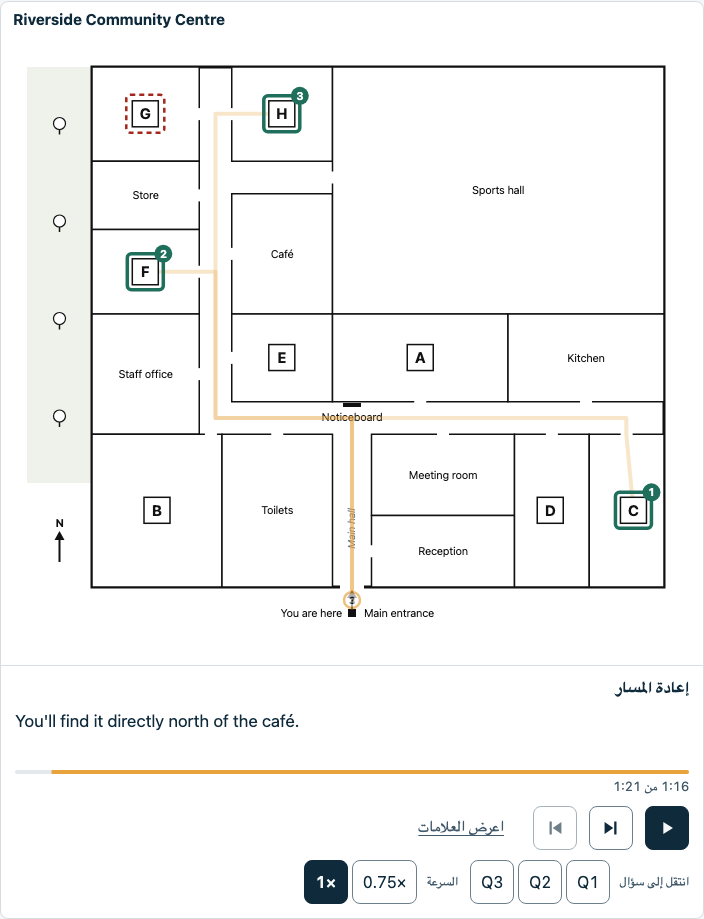
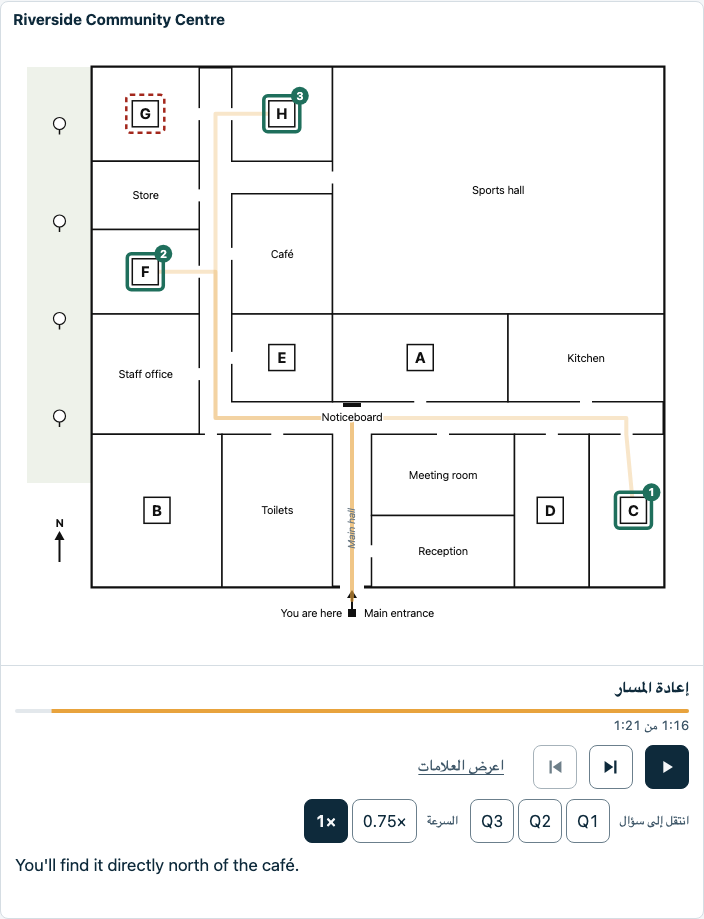
Ticket 10 critique fixes: controls above the caption (no layout jump), polite read-out when paused, focus to Play after Show marks, one start ring (no overprinted numbers), route under the map's names, token colours

diff --git a/web/src/AnswerReplay.tsx b/web/src/AnswerReplay.tsx
@@ -1,7 +1,7 @@
 // Answer Replay's player strip (ticket 10, approved shape brief): it sits under the review map and owns the recording.
 // Play and pause; step back and forward, which move to the moment the previous or next point appears and pause there;
 // a jump to each question's part, which starts at the sentence that opens it and plays; 0.75x or 1x; the sentence being
-// spoken as a caption, with a trap's or correction's authored note under it; and a progress line you read, not drag.
+// spoken as a caption (below the controls), with a trap's or correction's authored note under it, read out when paused; and a progress line you read, not drag.
 // The map drawing is the parent's: this strip reports the clock with onTime (null: back to the review marks).
 import { useCallback, useEffect, useRef, useState } from 'react';
 import { type ReplayPlan, stepFrom } from './replay.ts';
@@ -26,6 +26,7 @@ type Props = {
 
 export function AnswerReplay({ t, plan, audioUrl, durationSec, time, caption, note, onTime }: Props) {
   const audio = useRef<HTMLAudioElement>(null);
+  const playButton = useRef<HTMLButtonElement>(null);
   const frame = useRef(0);
   const [playing, setPlaying] = useState(false);
   const [status, setStatus] = useState<Status>('ready');
@@ -85,6 +86,7 @@ export function AnswerReplay({ t, plan, audioUrl, durationSec, time, caption, no
     a?.pause();
     if (a) a.currentTime = 0;
     onTime(null);
+    playButton.current?.focus(); // this button is about to go; focus must not fall to the page
   };
 
   const retry = () => {
@@ -100,22 +102,6 @@ export function AnswerReplay({ t, plan, audioUrl, durationSec, time, caption, no
     <div className="replay-strip">
       <h3 className="replay-title">{t.replayTitle}</h3>
       {!started && <p className="status-note">{t.replayIntro}</p>}
-      {started && (
-        <div className="replay-caption">
-          <p className="replay-sentence" dir="ltr" lang="en">
-            {caption ?? ' '}
-          </p>
-          {note && (
-            <p className="replay-note">
-              <span className="replay-note-kind">{note.kind === 'correction' ? t.replayCorrection : t.replayTrap}</span>{' '}
-              <span dir="ltr" lang="en">
-                {note.text}
-              </span>
-            </p>
-          )}
-        </div>
-      )}
-
       {(status === 'failed' || status === 'offline') && (
         <div className="status-row">
           <p className="status-text error" role="alert">
@@ -138,6 +124,7 @@ export function AnswerReplay({ t, plan, audioUrl, durationSec, time, caption, no
 
       <div className="replay-controls">
         <button
+          ref={playButton}
           type="button"
           className="primary icon-button"
           onClick={playing ? () => audio.current?.pause() : play}
@@ -203,6 +190,38 @@ export function AnswerReplay({ t, plan, audioUrl, durationSec, time, caption, no
           ))}
         </fieldset>
       </div>
+
+      {/* The caption comes after the controls, so its changing height never moves a button under the thumb. */}
+      {started && (
+        <div className="replay-caption">
+          <p className="replay-sentence" dir="ltr" lang="en">
+            {caption ?? ' '}
+          </p>
+          {note && (
+            <p className="replay-note">
+              <span className="replay-note-kind">{note.kind === 'correction' ? t.replayCorrection : t.replayTrap}</span>{' '}
+              <span dir="ltr" lang="en">
+                {note.text}
+              </span>
+            </p>
+          )}
+        </div>
+      )}
+
+      {/* Read out only while paused (after a step or a pause), never every frame over the recording. */}
+      <p className="visually-hidden" aria-live="polite">
+        {started && !playing && caption ? (
+          <>
+            <span lang="en">{caption}</span>
+            {note && (
+              <>
+                {' '}
+                {note.kind === 'correction' ? t.replayCorrection : t.replayTrap}: <span lang="en">{note.text}</span>
+              </>
+            )}
+          </>
+        ) : null}
+      </p>
 
       {/* Our own controls above are the keyboard and screen reader path; the transcript is the text alternative. */}
       {/* biome-ignore lint/a11y/useMediaCaption: the transcript below is the recording's text, shown in review */}

diff --git a/web/e2e/answer-replay.spec.ts b/web/e2e/answer-replay.spec.ts
@@ -130,6 +130,8 @@ test('Answer Replay plays, steps point by point, lights the place named, jumps t
   await expect.poll(() => clock(page)).toBeCloseTo(20.43, 1); // e2 "turn right" at the noticeboard
   await expect(page.locator('.replay-lit')).toHaveCount(1);
   await expect(page.locator('.replay-sentence')).toHaveText(/turn right\.$/);
+  // Paused after a step, the sentence is read out once (a polite live region), not every frame.
+  await expect(page.locator('[aria-live="polite"]').filter({ hasText: 'turn right.' })).toHaveCount(1);
   await expect(page.locator('.transcript li[aria-current="true"]')).toHaveText(/^First, the Quiet Lounge/);
   // Stepping pauses: the clock stays put.
   await page.waitForTimeout(400);
@@ -159,6 +161,7 @@ test('Answer Replay plays, steps point by point, lights the place named, jumps t
   // Pause, then Show the marks: back to the review marks at the start.
   await page.getByRole('button', { name: 'إيقاف مؤقت' }).click();
   await page.getByRole('button', { name: 'اعرض العلامات' }).click();
+  await expect(page.getByRole('button', { name: 'شغّل إعادة المسار' })).toBeFocused(); // not dropped to the page
   await expect(page.locator('svg.item-map .review-marks')).toBeVisible();
   await expect(page.locator('svg.item-map .replay-line')).toHaveCount(0);
   await expect.poll(() => clock(page)).toBe(0);
@@ -184,6 +187,7 @@ test('the correction: its wrong path and note appear at 68.89 s, the wrong place
   await expect(page.locator('.replay-note')).toHaveCount(0);
   await stepTo(page, 76.88); // 0.8 s after the last answer
   await expect(page.locator('.replay-summary')).toHaveCount(3);
+  await expect(page.locator('.replay-start')).toHaveCount(0); // legs share the entrance: no overprinted numbers
   await expect(page.locator('.replay-lit')).toHaveCount(0);
   await expect(next(page)).toBeDisabled();
   await page.waitForTimeout(800);

diff --git a/web/src/ReplayLayer.tsx b/web/src/ReplayLayer.tsx
@@ -1,6 +1,7 @@
 // Answer Replay drawn on the map (ticket 10; D23, D25, D27), as in the owner-approved prototype (map-format-v2,
 // variant D). It draws one moment, `view`, computed by replay.ts from the authored route: earlier legs faded, the
-// current leg's line with a numbered start ring, the place just named lit, places named by mistake in a dashed frame,
+// current leg's line with a numbered start ring (only the current one: legs that share an entrance would overprint
+// their numbers; the summary numbers the answers instead), the place just named lit, places named by mistake in a dashed frame,
 // a correction's wrong path, the walker, and at the end every answer framed and numbered together. The route goes
 // `under` the letters, with the walker, so no letter is ever hidden (on arrival the letter covers the walker and the
 // lit frame marks the place); the summary goes `over` them.
@@ -137,7 +138,6 @@ export function ReplayLayer({
         // biome-ignore lint/suspicious/noArrayIndexKey: legs are a fixed sequence
         <g key={i} className={view.summary ? 'replay-leg summary' : 'replay-leg earlier'}>
           <polyline className="replay-line" points={points(line)} />
-          <StartRing at={line[0]} n={i + 1} unit={unit} />
         </g>
       ))}
       {view.mistaken.map((m, i) => (

diff --git a/web/src/MapV2.tsx b/web/src/MapV2.tsx
@@ -59,7 +59,7 @@ export function doorLine(r: Rect, door: NonNullable<MapArea['door']>, half: numb
   return { x1: x, y1: y - half, x2: x, y2: y + half };
 }
 
-// `under` is drawn above the plan and below the letters (Answer Replay's route), so it never hides a letter.
+// `under` is drawn above the walls and below the names and letters (Answer Replay's route), so it never hides either.
 export function MapV2({
   map,
   unit,
@@ -113,6 +113,8 @@ export function MapV2({
         </g>
       ))}
 
+      {/* Above the walls and doors, below every name and letter, so the route never hides one. */}
+      {under}
       {(map.paths ?? []).map((p) => {
         if (!p.label || p.points.length < 2) return null;
         const [[x1, y1], [x2, y2]] = p.points;
@@ -192,7 +194,6 @@ export function MapV2({
         </g>
       )}
 
-      {under}
       {map.targets.map((t) => (
         <g key={t.label} className={t.label === picked ? 'letter-box picked' : 'letter-box'}>
           <rect

diff --git a/web/src/app.css b/web/src/app.css
@@ -1194,7 +1194,7 @@ button.icon-button {
 /* The transcript line being spoken during the replay: a light saffron wash, the tag stays on the named line. */
 .transcript li.spoken {
   max-inline-size: none;
-  background: rgb(232 163 61 / 0.16);
+  background: color-mix(in srgb, var(--saffron) 16%, transparent);
 }
 
 /* Map drawing, as in the owner-approved prototype (variant D). */
@@ -1231,7 +1231,7 @@ button.icon-button {
 }
 
 .item-map .replay-lit {
-  fill: rgb(232 163 61 / 0.22);
+  fill: color-mix(in srgb, var(--saffron) 22%, transparent);
   stroke: var(--saffron);
 }
 
@@ -1264,7 +1264,7 @@ button.icon-button {
 }
 
 .item-map .replay-summary-badge + .replay-number {
-  fill: #ffffff;
+  fill: var(--map-paper);
 }
 
 /* The end: the answer frames come in one after another, once. */
